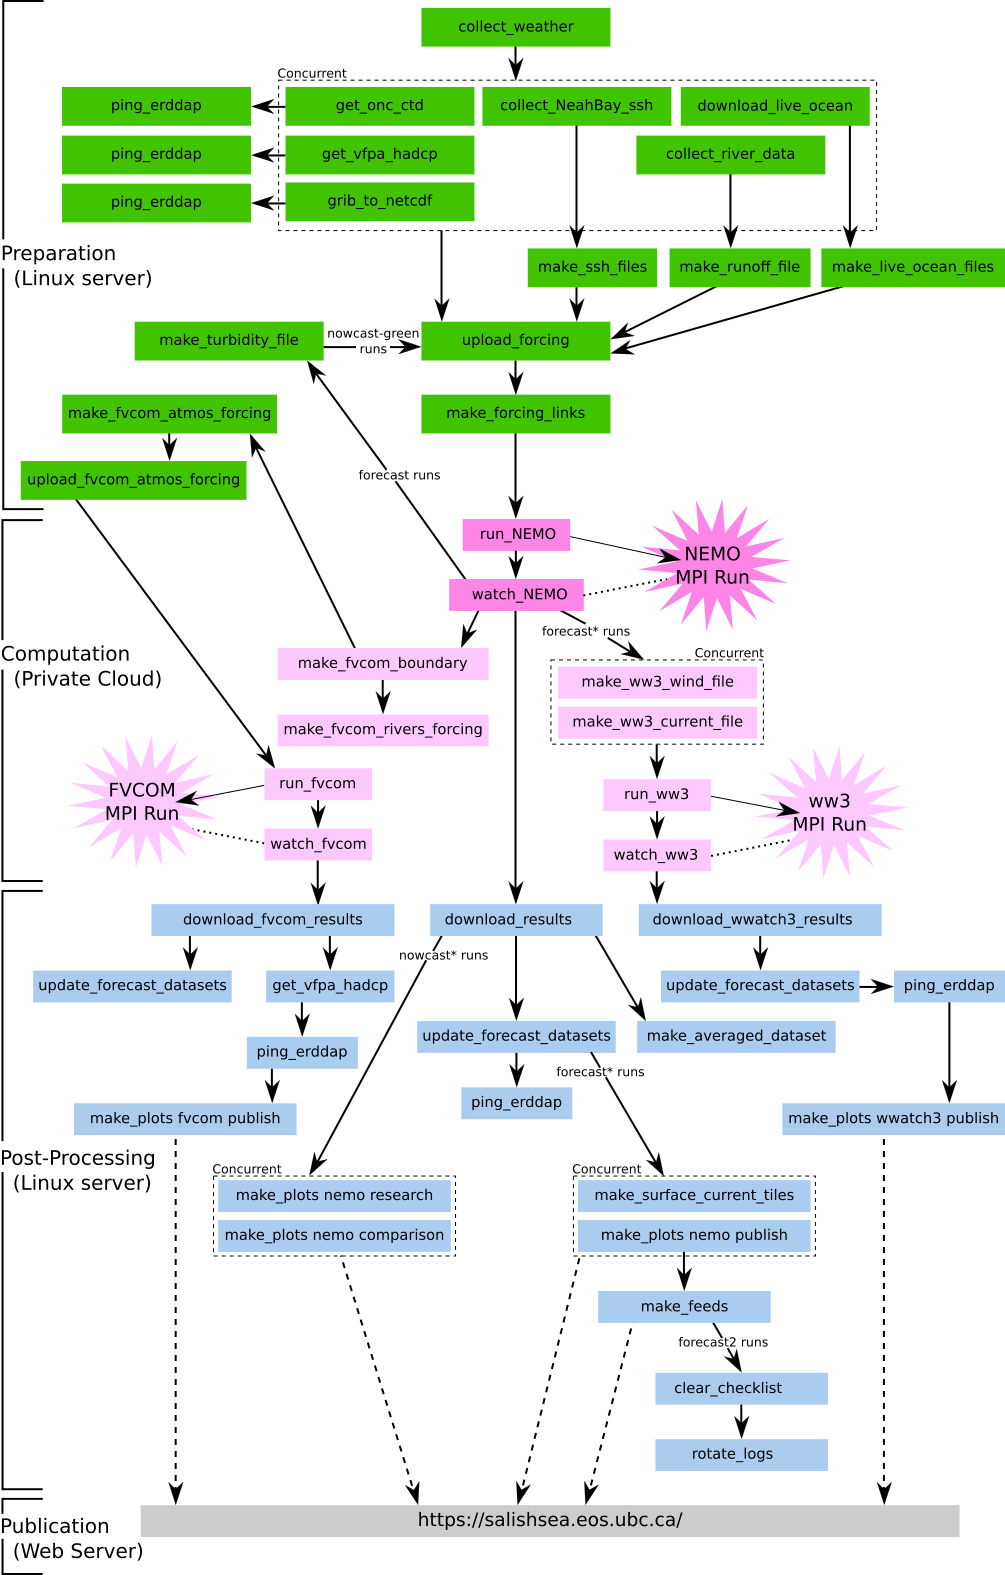
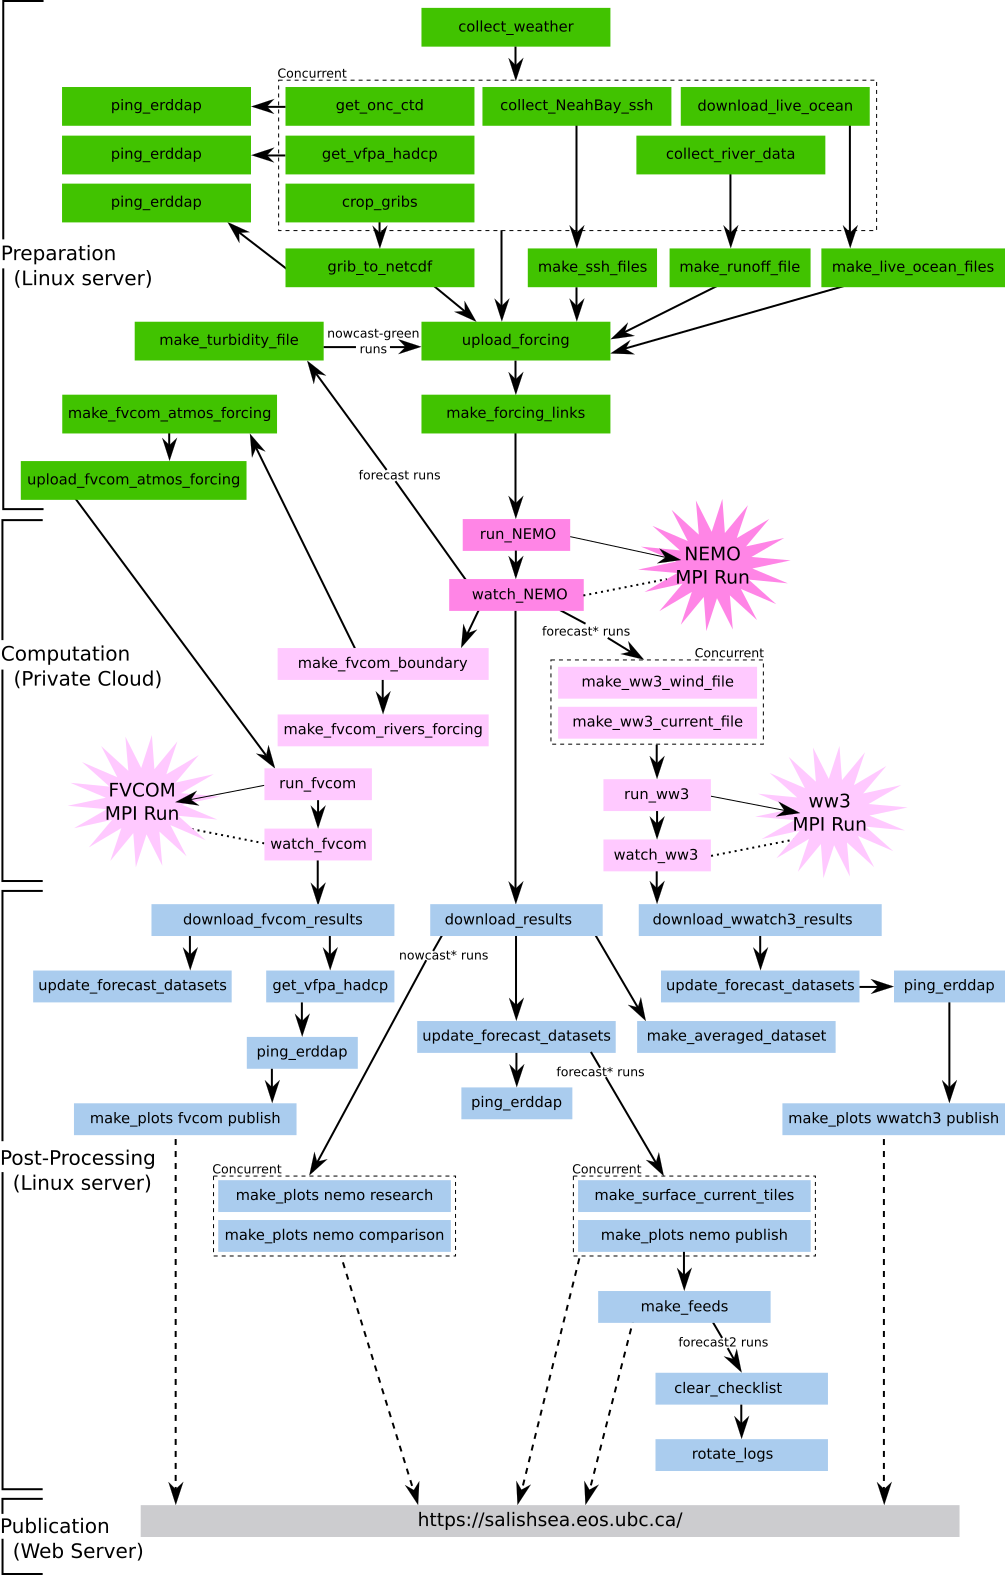
Add crop_gribs worker to docs

Changed region(s): [[0.2776, 0.1244, 0.4935, 0.2178], [0.2159, 0.1244, 0.2776, 0.1556], [0.4935, 0.1867, 0.5244, 0.2178]]

diff --git a/docs/workers.rst b/docs/workers.rst
@@ -81,6 +81,24 @@ Workers
     :members: main
 
 
+.. _CropGribsWorker:
+
+:kbd:`crop_gribs`
+---------------------
+
+.. automodule:: nowcast.workers.crop_gribs
+    :members: main
+
+
+.. _GribToNetcdfWorker:
+
+:kbd:`grib_to_netcdf`
+---------------------
+
+.. automodule:: nowcast.workers.grib_to_netcdf
+    :members: main
+
+
 :kbd:`collect_river_data`
 -------------------------
 
@@ -110,15 +128,6 @@ Workers
 ---------------------
 
 .. automodule:: nowcast.workers.make_ssh_files
-    :members: main
-
-
-.. _GribToNetcdfWorker:
-
-:kbd:`grib_to_netcdf`
----------------------
-
-.. automodule:: nowcast.workers.grib_to_netcdf
     :members: main
 
 
